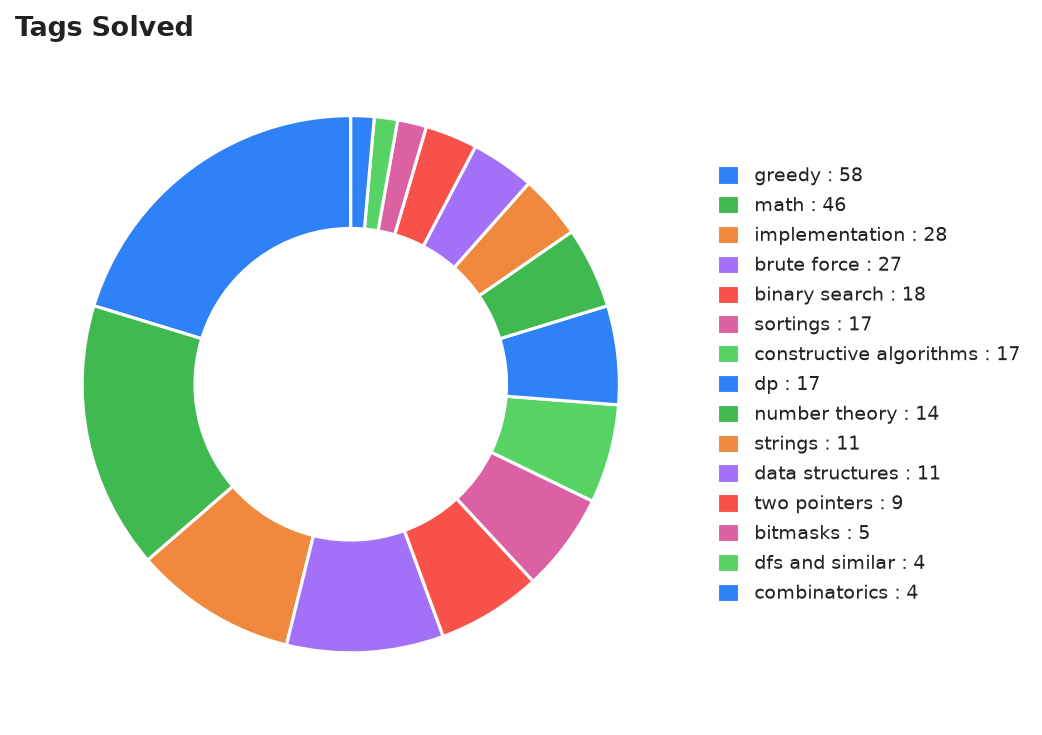
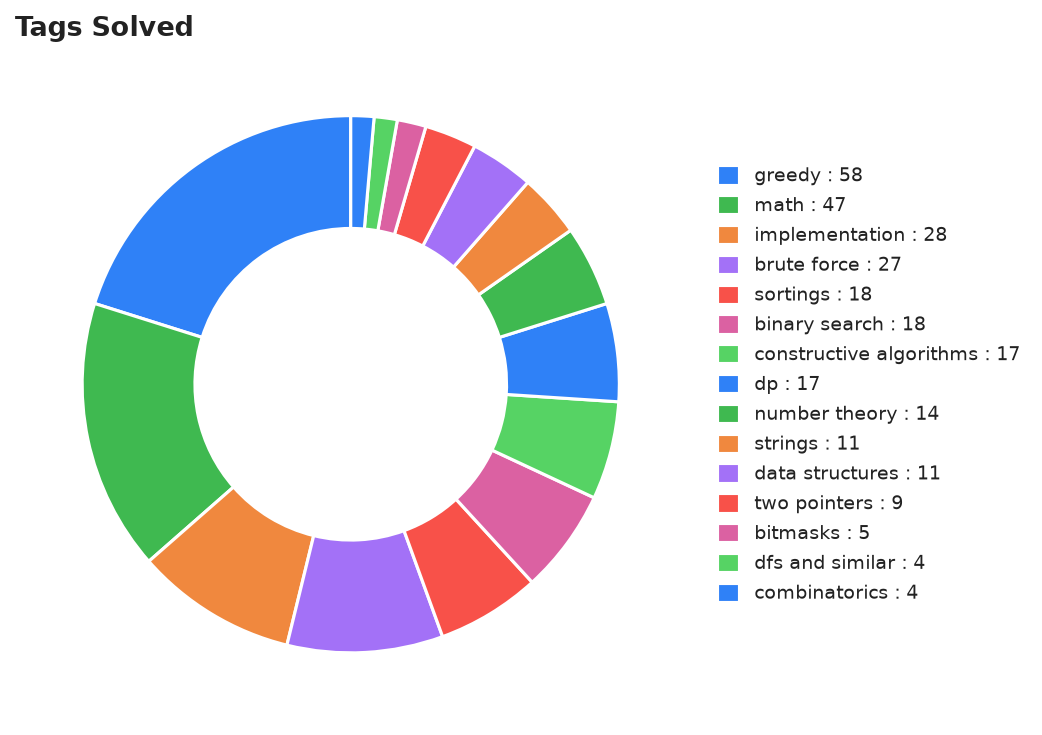
Sync: refresh analytics (rating/streak update, no new problems)

diff --git a/README.md b/README.md
@@ -55,11 +55,11 @@ Auto-generated archive of accepted Codeforces submissions for **[om_sharma_](htt
 | Tag | Count |
 |---|---|
 | `greedy` | 58 |
-| `math` | 46 |
+| `math` | 47 |
 | `implementation` | 28 |
 | `brute force` | 27 |
+| `sortings` | 18 |
 | `binary search` | 18 |
-| `sortings` | 17 |
 | `constructive algorithms` | 17 |
 | `dp` | 17 |
 | `number theory` | 14 |
@@ -88,7 +88,7 @@ Auto-generated archive of accepted Codeforces submissions for **[om_sharma_](htt
 | # | Problem | Rating | Tags | Code | Link |
 |---|---|---|---|---|---|
 | 2252A | [Boss Fight](problems/data-structures/Unrated_2252A-Boss-Fight) | ? | `data structures`, `greedy` | — | [CF](https://codeforces.com/contest/2252/problem/A) |
-| 2256A | [Three Numbers on the Blackboard](problems/untagged/Unrated_2256A-Three-Numbers-on-the-Blackboard) | ? |  | — | [CF](https://codeforces.com/contest/2256/problem/A) |
+| 2256A | [Three Numbers on the Blackboard](problems/math/Unrated_2256A-Three-Numbers-on-the-Blackboard) | ? | `math`, `sortings` | — | [CF](https://codeforces.com/contest/2256/problem/A) |
 | 4A | [Watermelon](problems/brute-force/0800_4A-Watermelon) | 800 | `brute force`, `math` | — | [CF](https://codeforces.com/contest/4/problem/A) |
 | 231A | [Team](problems/brute-force/0800_231A-Team) | 800 | `brute force`, `greedy` | — | [CF](https://codeforces.com/contest/231/problem/A) |
 | 263A | [Beautiful Matrix](problems/implementation/0800_263A-Beautiful-Matrix) | 800 | `implementation` | — | [CF](https://codeforces.com/contest/263/problem/A) |
